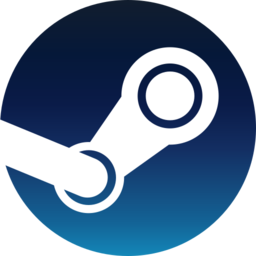
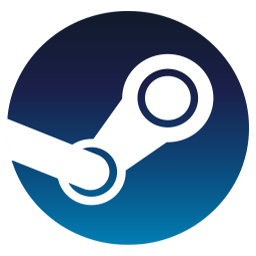
Иконки программ: согласованные, в одном стиле и в 256 px
Белые значки брендов на фирменном цвете (Simple Icons) для Epic, EA, Ubisoft,
Battle.net, Discord, TeamSpeak, NVIDIA, AMD, Afterburner, G HUB, SteelSeries,
Corsair; Steam — иконка из самой программы, CPU-Z — значок программы.
Теперь иконка есть у всех 24 программ.

Changed region(s): [[0.0, 0.0, 1.0, 1.0], [0.4375, 0.25, 0.5312, 0.4375], [0.375, 0.4375, 0.4375, 0.5312]]

diff --git a/DriverScout/GameApps.cs b/DriverScout/GameApps.cs
@@ -77,7 +77,7 @@ public static class GameApps
                 Source = AppSource.Winget, WingetId = "Valve.Steam", PageUrl = "https://store.steampowered.com/about/", DetectPattern = @"^Steam$" },
         new() { Name = "Epic Games", Icon = "epic", Description = "Лаунчер Epic Games Store и Unreal", Category = "Лаунчеры", Monogram = "Ep", Color = "#FF2A2A2A",
                 Source = AppSource.Winget, WingetId = "EpicGames.EpicGamesLauncher", PageUrl = "https://store.epicgames.com/download", DetectPattern = @"^Epic Games Launcher" },
-        new() { Name = "EA app", Description = "Игры Electronic Arts", Category = "Лаунчеры", Monogram = "EA", Color = "#FFFF4747",
+        new() { Name = "EA app", Icon = "ea", Description = "Игры Electronic Arts", Category = "Лаунчеры", Monogram = "EA", Color = "#FFFF4747",
                 Source = AppSource.Winget, WingetId = "ElectronicArts.EADesktop", PageUrl = "https://www.ea.com/ea-app", DetectPattern = @"^EA app" },
         new() { Name = "Ubisoft Connect", Icon = "ubisoft", Description = "Игры Ubisoft", Category = "Лаунчеры", Monogram = "Ub", Color = "#FF0070FF",
                 Source = AppSource.Winget, WingetId = "Ubisoft.Connect", PageUrl = "https://ubisoftconnect.com/", DetectPattern = @"^Ubisoft Connect" },
@@ -103,7 +103,7 @@ public static class GameApps
                 Source = AppSource.Winget, WingetId = "Asus.ArmouryCrate", PageUrl = "https://rog.asus.com/armoury-crate/", DetectPattern = @"Armoury ?Crate" },
         new() { Name = "GIGABYTE Control Center", Icon = "gigabyte", Description = "Подсветка, вентиляторы и обновления GIGABYTE", Category = "Утилиты производителей", Monogram = "GB", Color = "#FFF15A24",
                 Source = AppSource.Page, PageUrl = "https://www.gigabyte.com/Support/Utility", DetectPattern = @"^GIGABYTE Control Center" },
-        new() { Name = "MSI Afterburner", Description = "Разгон и мониторинг видеокарты", Category = "Утилиты производителей", Monogram = "AB", Color = "#FFB3001B",
+        new() { Name = "MSI Afterburner", Icon = "afterburner", Description = "Разгон и мониторинг видеокарты", Category = "Утилиты производителей", Monogram = "AB", Color = "#FFB3001B",
                 Source = AppSource.Winget, WingetId = "Guru3D.Afterburner", PageUrl = "https://www.msi.com/Landing/afterburner", DetectPattern = @"^MSI Afterburner" },
 
         // Периферия
@@ -111,7 +111,7 @@ public static class GameApps
                 Source = AppSource.Winget, WingetId = "Logitech.GHUB", PageUrl = "https://www.logitechg.com/innovation/g-hub.html", DetectPattern = @"^Logitech G HUB" },
         new() { Name = "Razer Synapse 4", Icon = "razer", Description = "Устройства Razer и подсветка Chroma", Category = "Периферия", Monogram = "Rz", Color = "#FF44D62C",
                 Source = AppSource.Winget, WingetId = "RazerInc.RazerInstaller.Synapse4", PageUrl = "https://www.razer.com/synapse-4", DetectPattern = @"^Razer Synapse" },
-        new() { Name = "SteelSeries GG", Description = "Устройства SteelSeries и Moments", Category = "Периферия", Monogram = "SS", Color = "#FFFF5200",
+        new() { Name = "SteelSeries GG", Icon = "steelseries", Description = "Устройства SteelSeries и Moments", Category = "Периферия", Monogram = "SS", Color = "#FFFF5200",
                 Source = AppSource.Winget, WingetId = "SteelSeries.GG", PageUrl = "https://steelseries.com/gg", DetectPattern = @"^SteelSeries GG" },
         new() { Name = "Corsair iCUE", Icon = "corsair", Description = "Устройства и подсветка Corsair", Category = "Периферия", Monogram = "iC", Color = "#FFECE81A",
                 Source = AppSource.Winget, WingetId = "Corsair.iCUE.5", PageUrl = "https://www.corsair.com/icue", DetectPattern = @"iCUE" },
